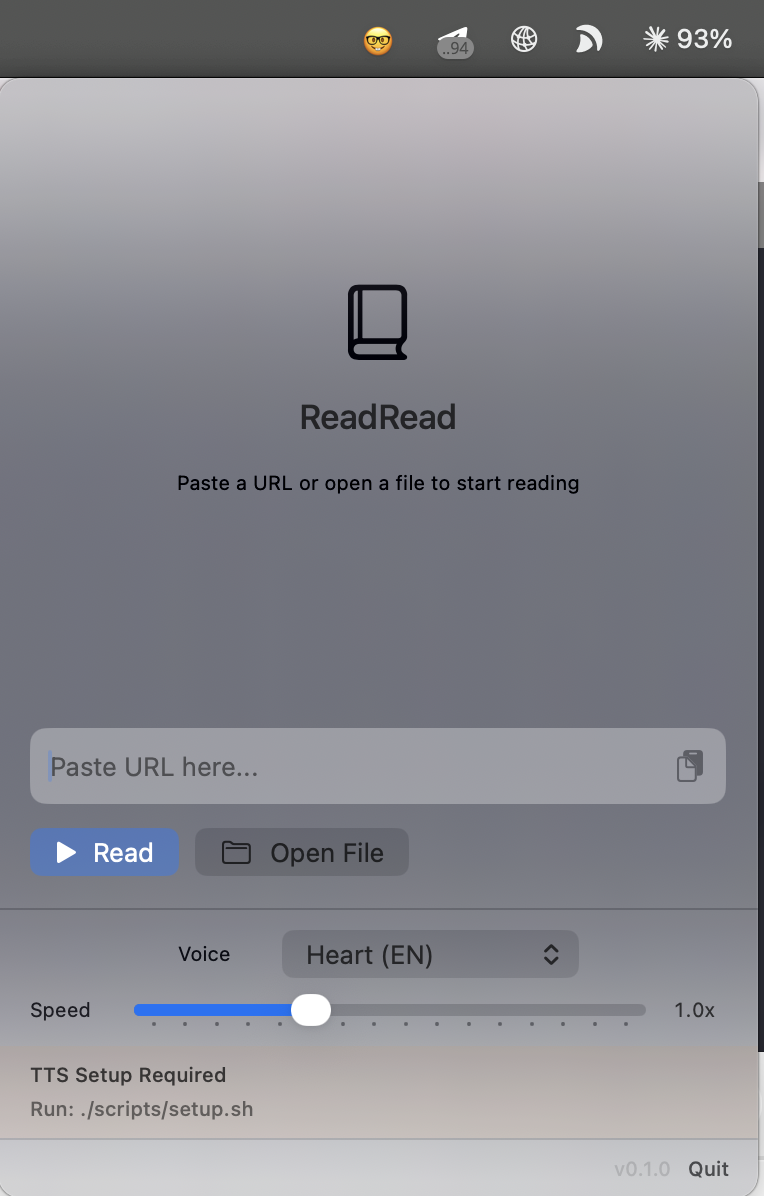
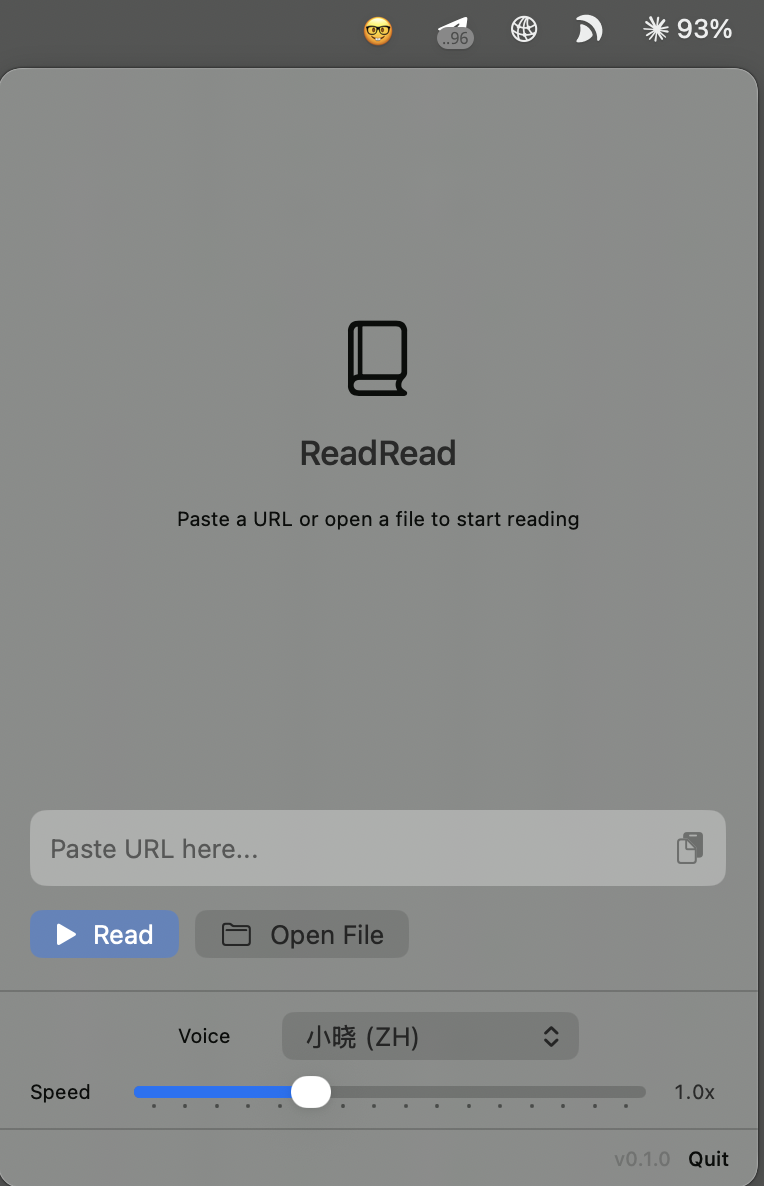
Resize screenshot in README and update image

diff --git a/README.md b/README.md
@@ -1,6 +1,6 @@
 # ReadRead
 
-![Screenshot](Screenshot_readread.png)
+<img src="Screenshot_readread.png" width="300">
 
 A macOS menu bar app that reads web pages and local files aloud using offline text-to-speech.
 
